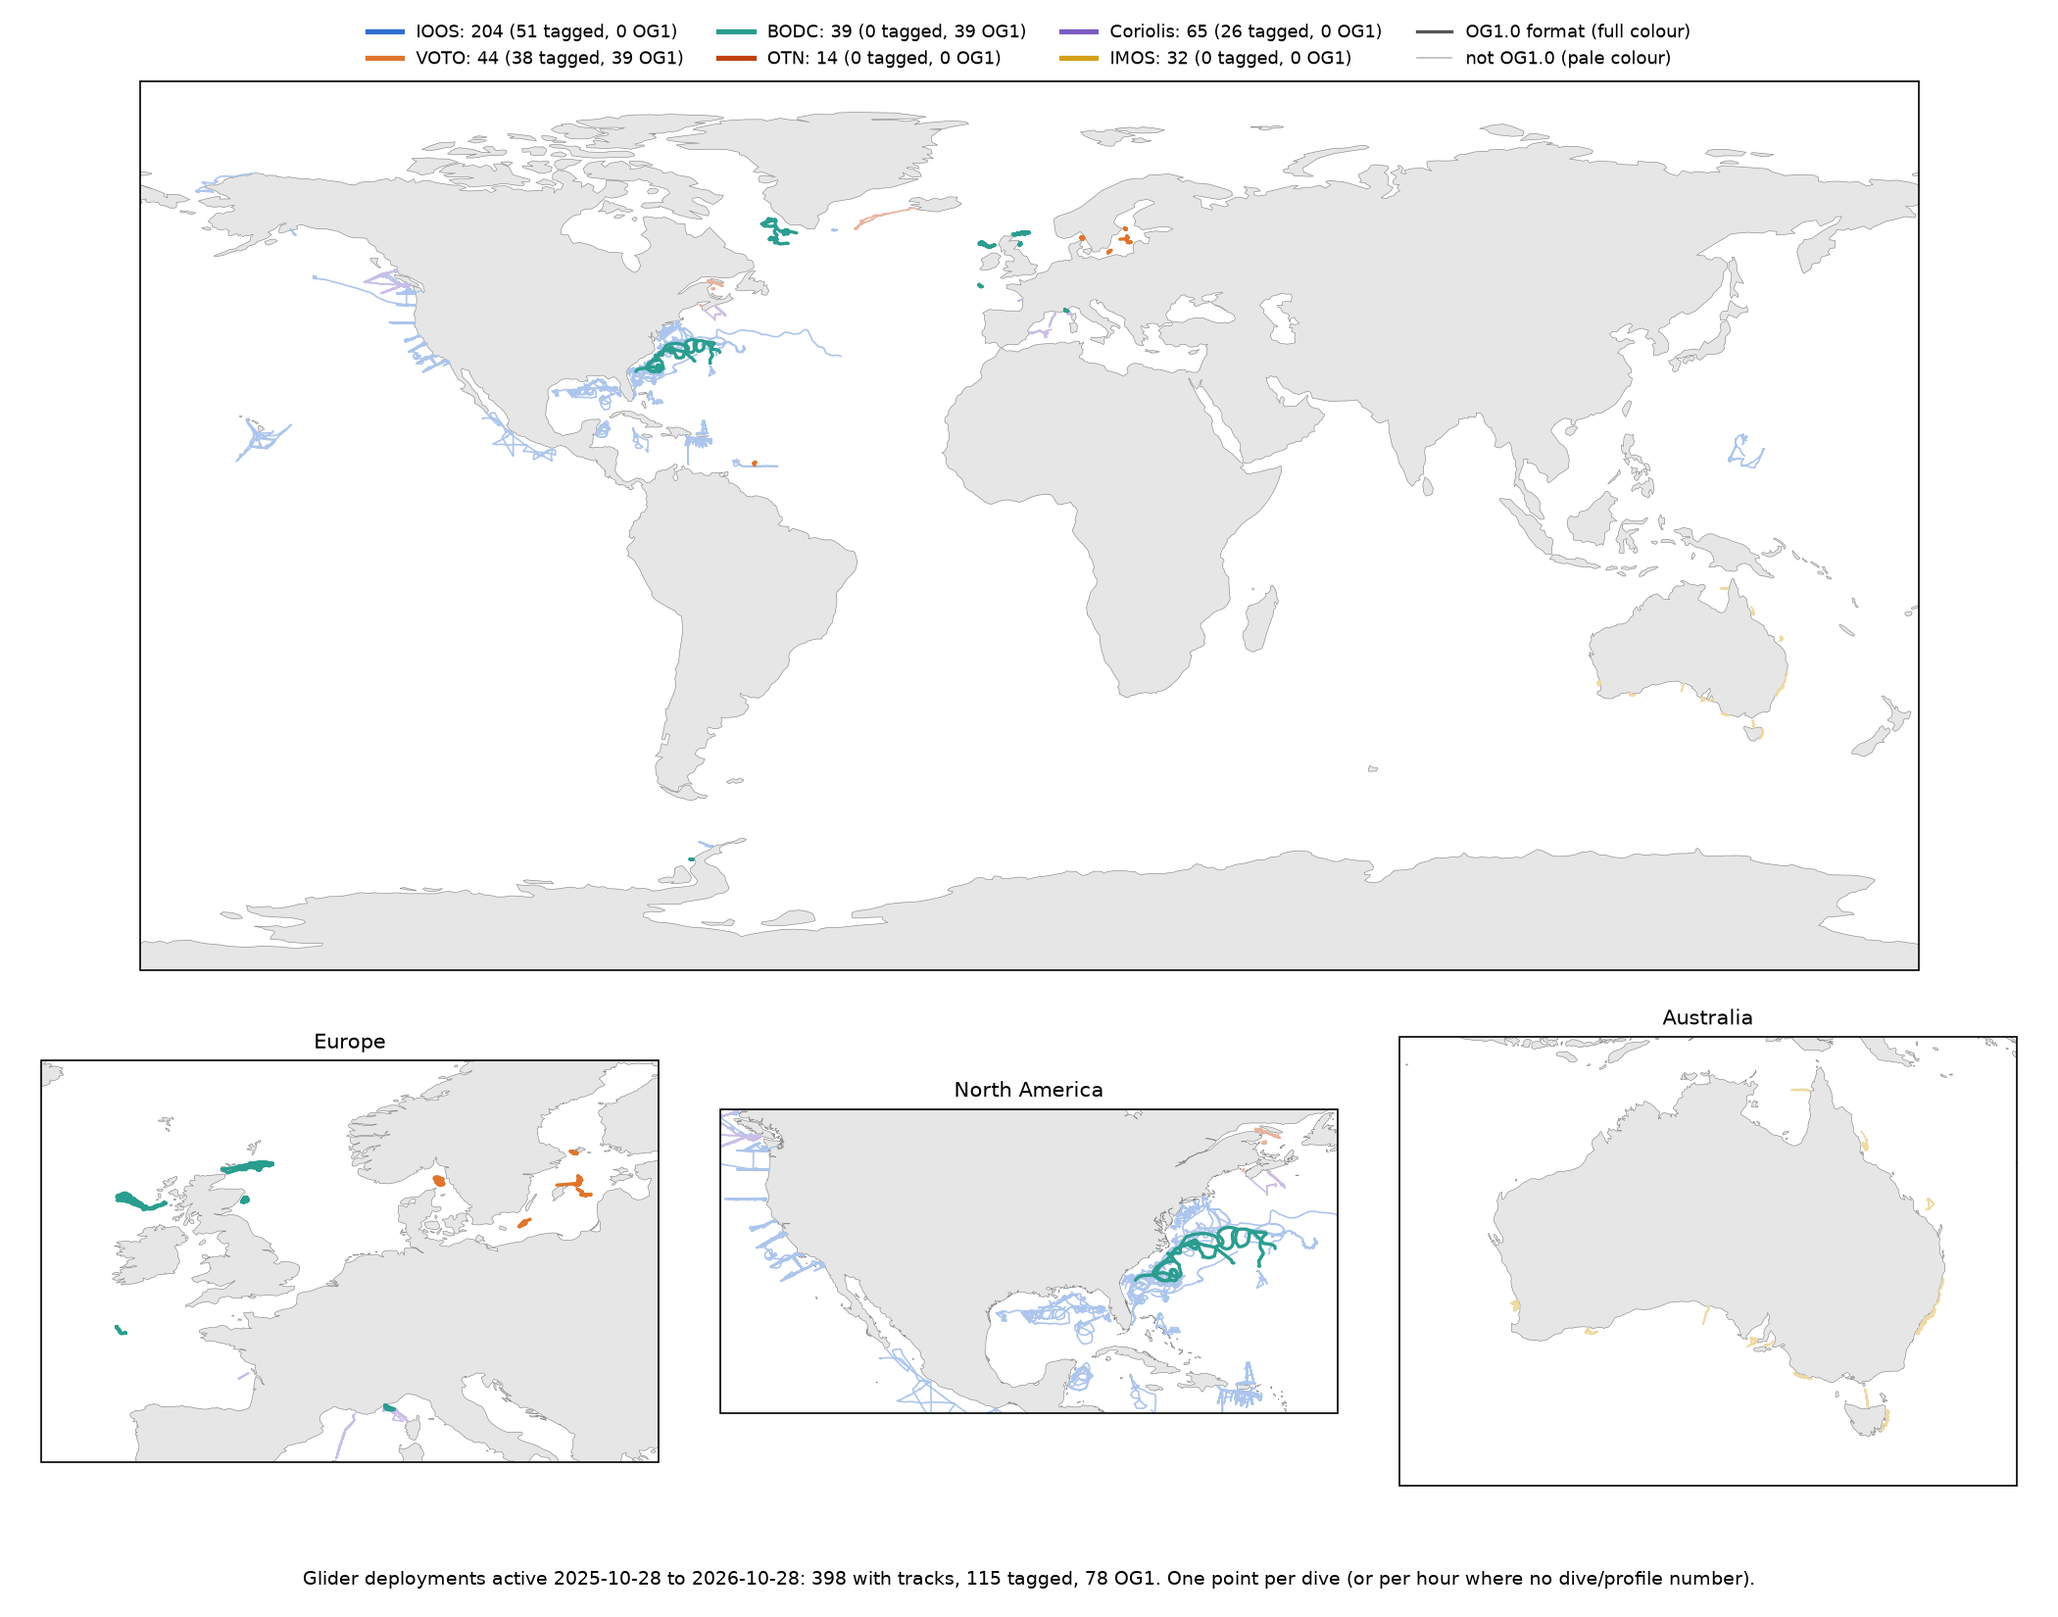
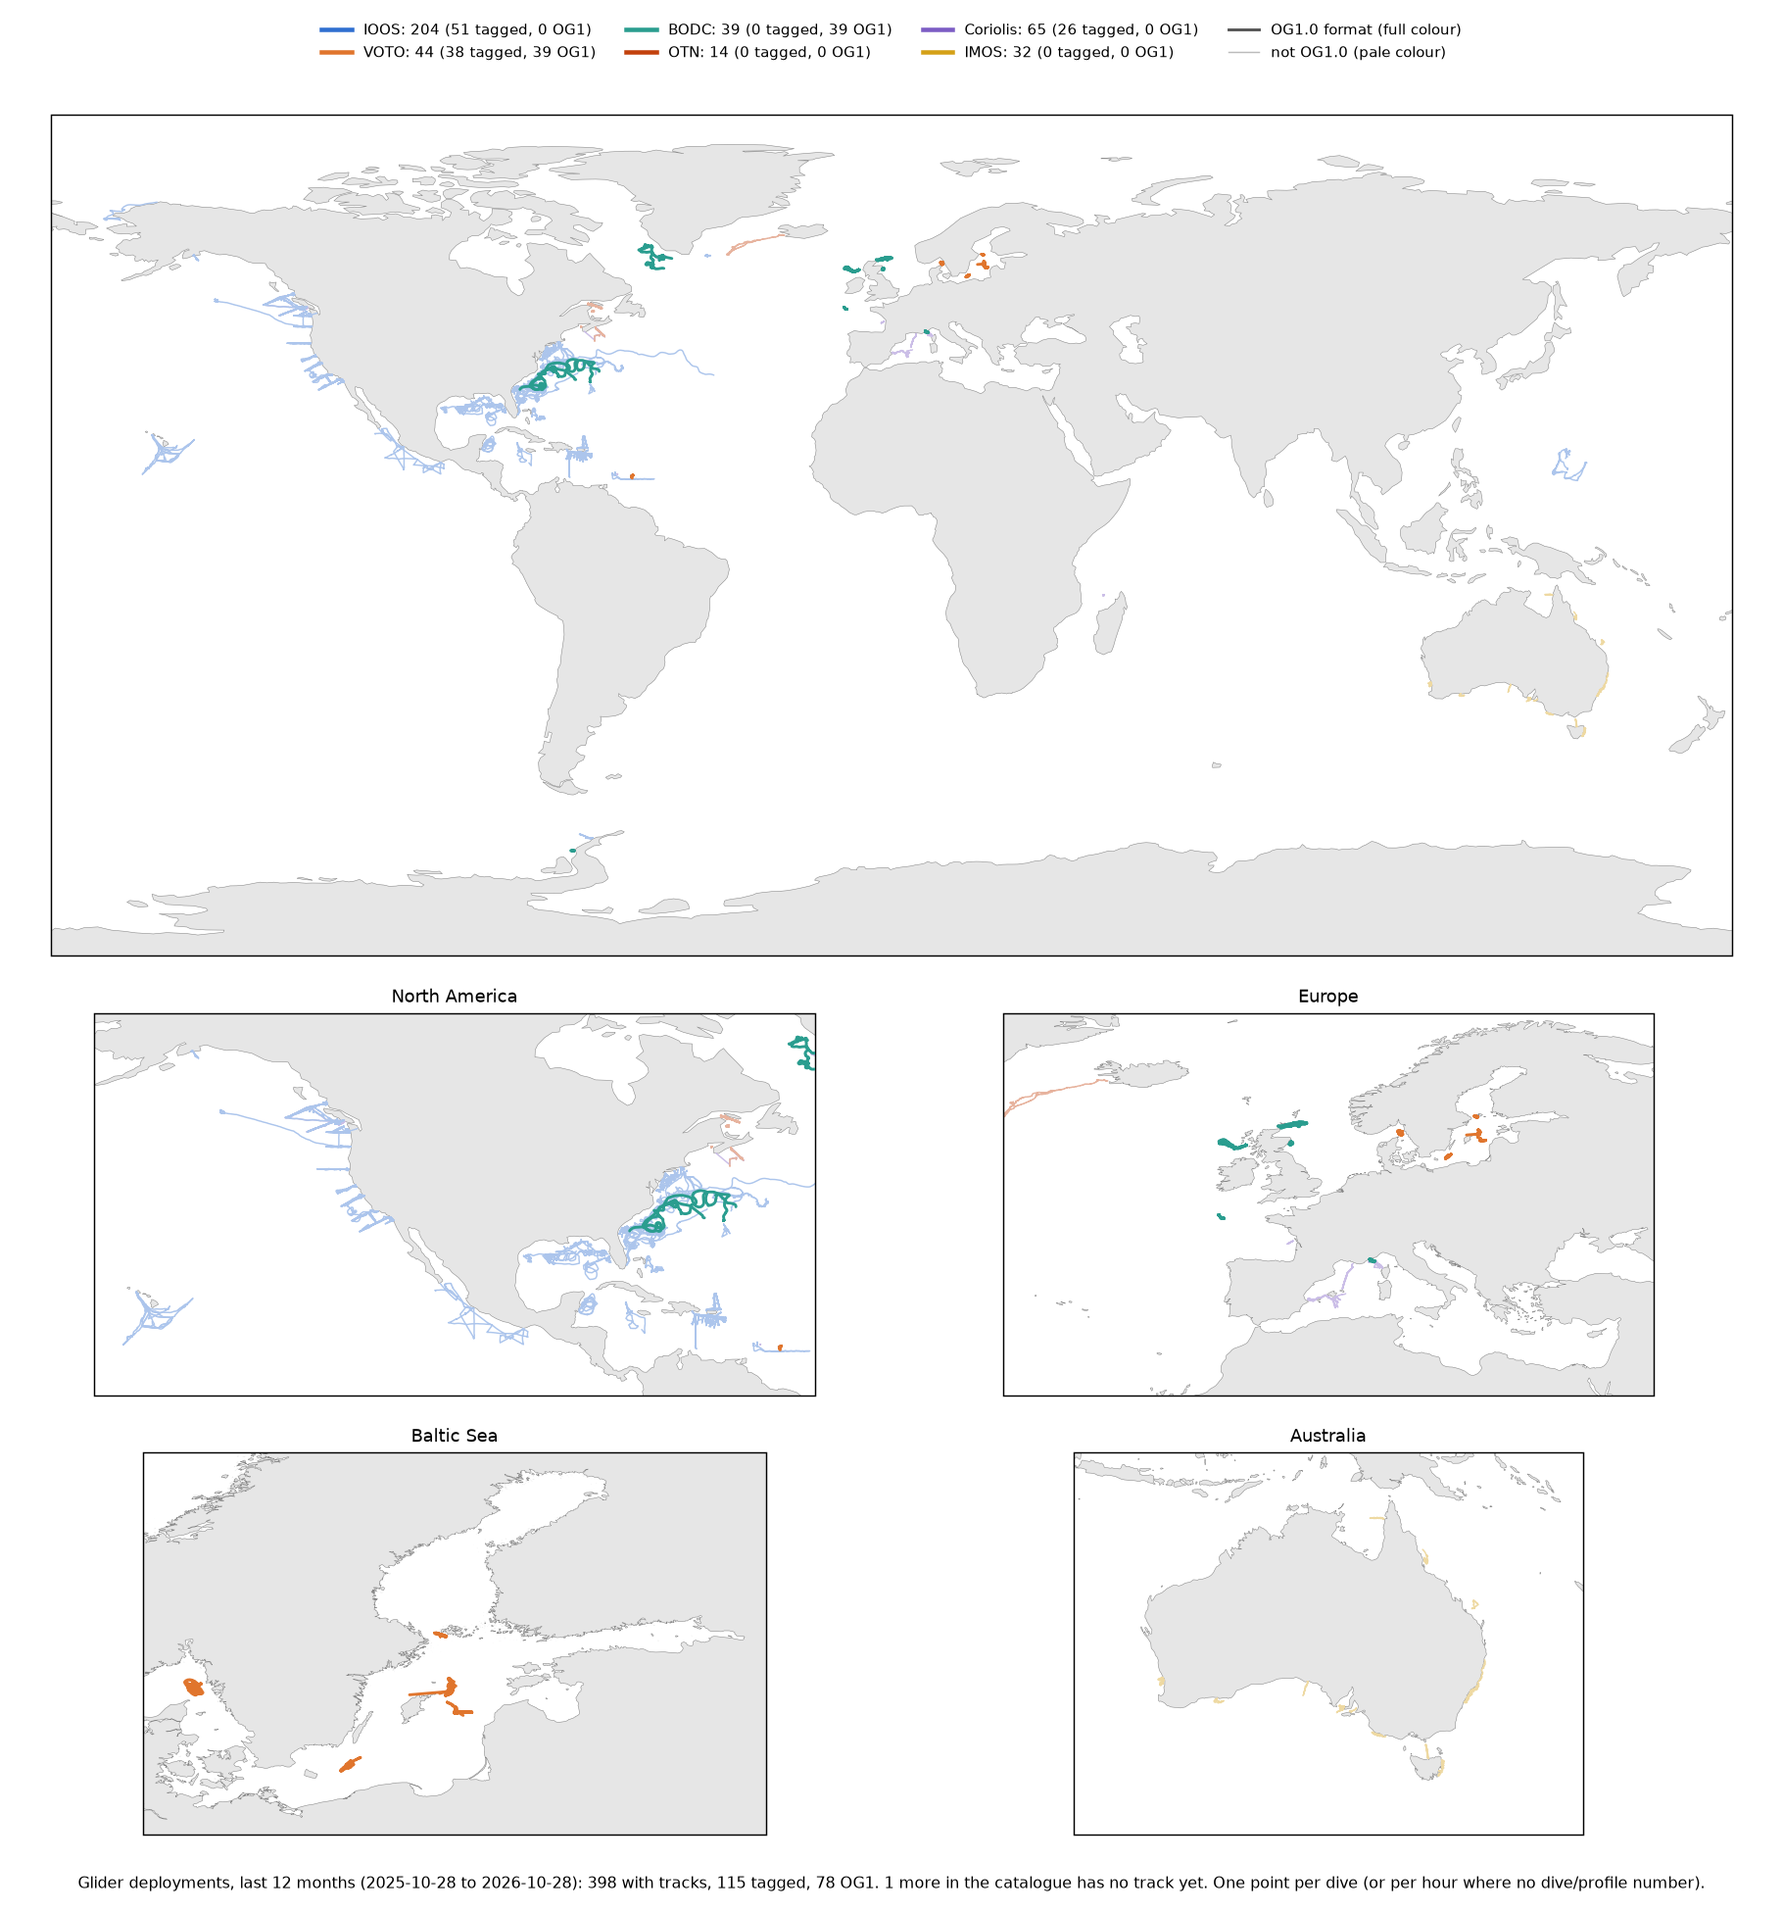
Track maps: five time windows, tagged/OG1 toggle, wider insets and a Baltic inset
- map_tracks.py renders tracks_<window>_<by>.png for all, since 2016, since 2021,
  last 2 years, last 12 months; LineCollection layers; caption counts deployments
  without a track yet (full-history fetch still in progress)
- insets: North America (5 to 66 N), Europe incl. Mediterranean, Baltic Sea, Australia
- dashboard card: window and colour-by toggles; build copies all track PNGs

diff --git a/dashboard/index.html b/dashboard/index.html
@@ -113,12 +113,39 @@
   </section>
 
   <section class="og-card" id="tracks-card">
-    <h2>Glider tracks in the last 12 months</h2>
-    <p class="note">Deployments active from 28 October 2025 to 28 October 2026, one position per dive (or per hour where the data have no dive or profile number). Colour: data centre.</p>
-    <h3>Tagged OceanGliders (full colour) or not tagged (pale)</h3>
-    <img src="data/tracks_12m.png" alt="World map of glider tracks in the last 12 months coloured by data centre, OceanGliders-tagged deployments in full colour and untagged ones pale" style="width:100%;height:auto;">
-    <h3>Available in OG1.0 format (full colour) or not (pale)</h3>
-    <img src="data/tracks_12m_og1.png" alt="World map of glider tracks in the last 12 months coloured by data centre, deployments available in OG1.0 format in full colour and others pale" style="width:100%;height:auto;">
+    <h2>Glider tracks</h2>
+    <p class="note">One position per dive (or per hour where the data have no dive or profile number). Colour: data centre. Windows run to 28 October 2026 and include every deployment active in them.</p>
+    <div class="og-seg" role="group" aria-label="Time window">
+      <button type="button" data-win="all" aria-pressed="false">All</button>
+      <button type="button" data-win="2016" aria-pressed="false">Since 2016</button>
+      <button type="button" data-win="2021" aria-pressed="false">Since 2021</button>
+      <button type="button" data-win="2y" aria-pressed="false">Last 2 years</button>
+      <button type="button" data-win="12m" aria-pressed="true">Last 12 months</button>
+    </div>
+    <div class="og-seg" role="group" aria-label="Full colour shows">
+      <button type="button" data-by="tagged" aria-pressed="true">Tagged OceanGliders</button>
+      <button type="button" data-by="og1" aria-pressed="false">OG1.0 format</button>
+    </div>
+    <img id="tracks-img" src="data/tracks_12m_tagged.png" alt="World map of glider tracks coloured by data centre" style="width:100%;height:auto;">
+    <script>
+    (() => {
+      const card = document.getElementById('tracks-card'), img = document.getElementById('tracks-img');
+      const st = { win: '12m', by: 'tagged' };
+      const show = () => {
+        img.src = `data/tracks_${st.win}_${st.by}.png`;
+        img.alt = `World map of glider tracks (${st.win}) coloured by data centre; full colour: ${st.by === 'og1' ? 'OG1.0 format' : 'tagged OceanGliders'}, pale: others`;
+        card.querySelectorAll('button[data-win]').forEach(b => b.setAttribute('aria-pressed', b.dataset.win === st.win));
+        card.querySelectorAll('button[data-by]').forEach(b => b.setAttribute('aria-pressed', b.dataset.by === st.by));
+      };
+      card.addEventListener('click', e => {
+        const b = e.target.closest('button');
+        if (!b) return;
+        if (b.dataset.win) st.win = b.dataset.win;
+        if (b.dataset.by) st.by = b.dataset.by;
+        show();
+      });
+    })();
+    </script>
   </section>
 
   <section class="og-grid">

diff --git a/docs/index.html b/docs/index.html
@@ -192,12 +192,39 @@
   </section>
 
   <section class="og-card" id="tracks-card">
-    <h2>Glider tracks in the last 12 months</h2>
-    <p class="note">Deployments active from 28 October 2025 to 28 October 2026, one position per dive (or per hour where the data have no dive or profile number). Colour: data centre.</p>
-    <h3>Tagged OceanGliders (full colour) or not tagged (pale)</h3>
-    <img src="data/tracks_12m.png" alt="World map of glider tracks in the last 12 months coloured by data centre, OceanGliders-tagged deployments in full colour and untagged ones pale" style="width:100%;height:auto;">
-    <h3>Available in OG1.0 format (full colour) or not (pale)</h3>
-    <img src="data/tracks_12m_og1.png" alt="World map of glider tracks in the last 12 months coloured by data centre, deployments available in OG1.0 format in full colour and others pale" style="width:100%;height:auto;">
+    <h2>Glider tracks</h2>
+    <p class="note">One position per dive (or per hour where the data have no dive or profile number). Colour: data centre. Windows run to 28 October 2026 and include every deployment active in them.</p>
+    <div class="og-seg" role="group" aria-label="Time window">
+      <button type="button" data-win="all" aria-pressed="false">All</button>
+      <button type="button" data-win="2016" aria-pressed="false">Since 2016</button>
+      <button type="button" data-win="2021" aria-pressed="false">Since 2021</button>
+      <button type="button" data-win="2y" aria-pressed="false">Last 2 years</button>
+      <button type="button" data-win="12m" aria-pressed="true">Last 12 months</button>
+    </div>
+    <div class="og-seg" role="group" aria-label="Full colour shows">
+      <button type="button" data-by="tagged" aria-pressed="true">Tagged OceanGliders</button>
+      <button type="button" data-by="og1" aria-pressed="false">OG1.0 format</button>
+    </div>
+    <img id="tracks-img" src="data/tracks_12m_tagged.png" alt="World map of glider tracks coloured by data centre" style="width:100%;height:auto;">
+    <script>
+    (() => {
+      const card = document.getElementById('tracks-card'), img = document.getElementById('tracks-img');
+      const st = { win: '12m', by: 'tagged' };
+      const show = () => {
+        img.src = `data/tracks_${st.win}_${st.by}.png`;
+        img.alt = `World map of glider tracks (${st.win}) coloured by data centre; full colour: ${st.by === 'og1' ? 'OG1.0 format' : 'tagged OceanGliders'}, pale: others`;
+        card.querySelectorAll('button[data-win]').forEach(b => b.setAttribute('aria-pressed', b.dataset.win === st.win));
+        card.querySelectorAll('button[data-by]').forEach(b => b.setAttribute('aria-pressed', b.dataset.by === st.by));
+      };
+      card.addEventListener('click', e => {
+        const b = e.target.closest('button');
+        if (!b) return;
+        if (b.dataset.win) st.win = b.dataset.win;
+        if (b.dataset.by) st.by = b.dataset.by;
+        show();
+      });
+    })();
+    </script>
   </section>
 
   <section class="og-grid">

diff --git a/analysis/map_tracks.py b/analysis/map_tracks.py
@@ -1,9 +1,12 @@
-"""Static map of glider tracks in a window, coloured by DAC.
+"""Static maps of glider tracks, coloured by DAC, for several time windows.
 
---by tagged: OceanGliders-tagged deployments in full DAC colour, untagged pale.
---by og1:    deployments available in OG1.0 format in full DAC colour, others pale.
+For each window, two maps:
+  by tagged: OceanGliders-tagged deployments in full DAC colour, untagged pale.
+  by og1:    deployments available in OG1.0 format in full DAC colour, others pale.
 
-    python3.11 map_tracks.py --since 2025-10-28 [--until YYYY-MM-DD] [--by tagged|og1] [--out tracks.png]
+    python3.11 map_tracks.py [--until 2026-10-28] [--windows all 2016 2021 2y 12m] [--outdir ../data]
+
+writes <outdir>/tracks_<window>_<by>.png.
 """
 import argparse
 from datetime import date, timedelta
@@ -12,16 +15,27 @@ import cartopy.crs as ccrs
 import cartopy.feature as cfeature
 import matplotlib
 matplotlib.use('Agg')
+import matplotlib.colors as mc
 import matplotlib.pyplot as plt
 import numpy as np
-import matplotlib.colors as mc
+from matplotlib.collections import LineCollection
 from matplotlib.lines import Line2D
 
-from store import DAC_COLORS, load_tracks
+from store import DAC_COLORS, load_deployments, load_tracks
 
 PC = ccrs.PlateCarree()
-REGIONS = {'Europe': (-15, 25, 40, 66), 'North America': (-130, -55, 15, 52),
-           'Australia': (105, 160, -48, -8)}
+REGIONS = {'North America': (-165, -50, 5, 66), 'Europe': (-35, 40, 28, 72),
+           'Baltic Sea': (9, 31, 53, 66.5), 'Australia': (105, 165, -50, -5)}
+BY = {'tagged': ('tagged', 'OceanGliders tagged', 'not tagged'),
+      'og1': ('og1', 'OG1.0 format', 'not OG1.0')}
+
+
+def windows(until):
+    u = date.fromisoformat(until)
+    return {'all': (None, 'all deployments'), '2016': ('2016-01-01', 'since 2016'),
+            '2021': ('2021-01-01', 'since 2021'),
+            '2y': (str(u - timedelta(days=730)), 'last 2 years'),
+            '12m': (str(u - timedelta(days=365)), 'last 12 months')}
 
 
 def pale(c, f=0.6):
@@ -32,45 +46,41 @@ def pale(c, f=0.6):
 def segments(lon, lat):
     """Split a track where it crosses the dateline or has a large position gap."""
     br = np.where((np.abs(np.diff(lon)) > 180) | (np.hypot(np.diff(lon), np.diff(lat)) > 5))[0] + 1
-    return zip(np.split(lon, br), np.split(lat, br))
+    return [np.column_stack(s) for s in zip(np.split(lon, br), np.split(lat, br)) if len(s[0]) > 1]
 
 
-BY = {'tagged': ('tagged', 'OceanGliders tagged', 'not tagged'),
-      'og1': ('og1', 'OG1.0 format', 'not OG1.0')}
+def layers(tr, key):
+    """Line segments grouped into (colour, width, zorder) layers; highlighted tracks on top."""
+    out = []
+    for on in (False, True):
+        for src, g in tr[tr[key] == on].groupby('source'):
+            segs = [s for _, d in g.groupby('dep_id', sort=False) for s in segments(d.lon.values, d.lat.values)]
+            c = DAC_COLORS[src]
+            out.append((segs, c if on else pale(c), 1.6 if on else 0.8, 3 if on else 2))
+    return out
 
 
-def draw(ax, tr, key, extent=None):
+def draw(ax, lay, extent=None):
     if extent:
         ax.set_extent(extent, PC)
     else:
         ax.set_global()
     ax.add_feature(cfeature.LAND, facecolor='#e6e6e6', zorder=0)
     ax.coastlines(lw=0.3, color='#888')
-    for on in (False, True):
-        for dep, g in tr[tr[key] == on].groupby('dep_id', sort=False):
-            g = g.sort_values('time')
-            c = DAC_COLORS[g.source.iat[0]]
-            for x, y in segments(g.lon.values, g.lat.values):
-                ax.plot(x, y, color=c if on else pale(c), transform=PC, lw=1.6 if on else 0.8,
-                        zorder=3 if on else 2, solid_capstyle='round')
+    for segs, c, lw, z in lay:
+        ax.add_collection(LineCollection(segs, colors=[c], linewidths=lw, zorder=z,
+                                         transform=PC, capstyle='round'))
 
 
-def main():
-    ap = argparse.ArgumentParser()
-    ap.add_argument('--since', default=str(date.today() - timedelta(days=365)))
-    ap.add_argument('--until')
-    ap.add_argument('--by', choices=BY, default='tagged')
-    ap.add_argument('--out', default='tracks.png')
-    a = ap.parse_args()
-    tr = load_tracks(a.since, a.until)
+def render(tr, by, label, n_missing, out):
+    key, on_label, off_label = BY[by]
     deps = tr.drop_duplicates('dep_id')
-    key, on_label, off_label = BY[a.by]
-
-    fig = plt.figure(figsize=(14, 11))
-    draw(fig.add_axes([0.02, 0.40, 0.96, 0.55], projection=PC), tr, key)
+    lay = layers(tr, key)
+    fig = plt.figure(figsize=(14, 15))
+    draw(fig.add_axes([0.02, 0.50, 0.96, 0.44], projection=PC), lay)
     for i, (name, ext) in enumerate(REGIONS.items()):
-        ax = fig.add_axes([0.02 + i * 0.33, 0.06, 0.30, 0.32], projection=PC)
-        draw(ax, tr, key, ext)
+        ax = fig.add_axes([0.03 + (i % 2) * 0.49, 0.27 - (i // 2) * 0.23, 0.45, 0.20], projection=PC)
+        draw(ax, lay, ext)
         ax.set_title(name, fontsize=10)
 
     n = deps.groupby('source').agg(n=('dep_id', 'size'), tag=('tagged', 'sum'), og1=('og1', 'sum'))
@@ -81,12 +91,33 @@ def main():
           Line2D([], [], color=pale('#555'), lw=0.8, label=f'{off_label} (pale colour)')]
     fig.legend(handles=h, loc='upper center', ncol=4, fontsize=8.5, frameon=False,
                bbox_to_anchor=(0.5, 0.995))
-    fig.text(0.5, 0.02, f'Glider deployments active {a.since} to {a.until or date.today()}: '
-             f'{len(deps)} with tracks, {int(deps.tagged.sum())} tagged, {int(deps.og1.sum())} OG1. '
+    miss = f' {n_missing} more in the catalogue {"has" if n_missing == 1 else "have"} no track yet.' if n_missing else ''
+    fig.text(0.5, 0.012, f'Glider deployments, {label}: {len(deps)} with tracks, '
+             f'{int(deps.tagged.sum())} tagged, {int(deps.og1.sum())} OG1.{miss} '
              'One point per dive (or per hour where no dive/profile number).',
              ha='center', fontsize=9)
-    fig.savefig(a.out, dpi=150)
-    print(a.out, len(deps), 'deployments,', len(tr), 'points')
+    fig.savefig(out, dpi=130)
+    plt.close(fig)
+    print(out, len(deps), 'deployments')
+
+
+def main():
+    ap = argparse.ArgumentParser()
+    ap.add_argument('--until', default=str(date.today()))
+    ap.add_argument('--windows', nargs='+', default=['all', '2016', '2021', '2y', '12m'])
+    ap.add_argument('--by', nargs='+', default=list(BY), choices=BY)
+    ap.add_argument('--outdir', default='.')
+    a = ap.parse_args()
+    d = load_deployments()
+    act = d['end_date'].fillna(d['start_date'])
+    for w in a.windows:
+        since, label = windows(a.until)[w]
+        tr = load_tracks(since, a.until)
+        cand = d[(act >= since) if since else act.notna()]
+        n_missing = int((cand['track_status'] != 'ok').sum())
+        label = f'{label} ({since} to {a.until})' if since else f'{label} (to {a.until})'
+        for by in a.by:
+            render(tr, by, label, n_missing, f'{a.outdir}/tracks_{w}_{by}.png')
 
 
 if __name__ == '__main__':

diff --git a/make_standalone.py b/make_standalone.py
@@ -12,7 +12,7 @@ import shutil
 ROOT = pathlib.Path(__file__).parent
 page = (ROOT / 'dashboard' / 'index.html').read_text()
 (ROOT / 'docs' / 'data').mkdir(parents=True, exist_ok=True)
-for f in ('glider_deployments.csv', 'spot_checks.json', 'tracks_12m.png', 'tracks_12m_og1.png'):
+for f in ['glider_deployments.csv', 'spot_checks.json'] + sorted(p.name for p in (ROOT / 'data').glob('tracks_*_*.png')):
     shutil.copy(ROOT / 'data' / f, ROOT / 'docs' / 'data' / f)
 
 SHIM = r"""<!doctype html>
